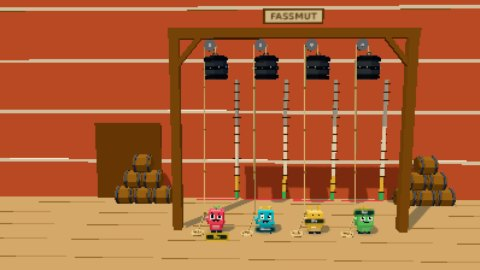
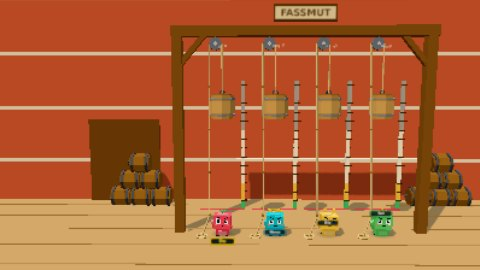
Bergsteiger an den Griffen, Trampolin ohne Flackern, Fassmut trifft den Kopf
Bergsteiger: Die Figur hing eine halbe Figur unter den Griffen. Die lagen
seit der letzten Runde über dem Kopf, der Arm ist aber nur gut 0,23 lang.
Jetzt liegt der neueste Griff knapp über der Schulter in Reichweite des
schräg hochgestreckten Arms, der andere auf Schulterhöhe: beide Hände
liegen auf ihren Griffen.

Trampolin: Die Grasflecken der Wiese lagen auf derselben Höhe wie der
Sand der Manege, und unter den Trampolinen flackerten grüne Zacken durch.
Die Manege liegt jetzt klar darüber.

Fassmut: Wer verlor, bekam das Fass nicht auf den Kopf. Es blieb auf einer
festen Höhe stehen, die über Blatt, Krone und Antenne lag, und die Figur
schlug darunter einen Rückwärtssalto. Jetzt misst die Szene dicht am Kopf
den echten Kopf jeder Figur: das Fass setzt darauf auf, drückt die Figur
von der Sohle aus zusammen, bleibt dabei auf dem Kopf und kippt dann zur
Seite. Was auf dem Kopf sitzt, wird darunter plattgedrückt — auch wenn ein
gefangenes Fass dicht darüber hängt. Lineal, Kopflinie und Schatten messen
jetzt ab der Oberkante des Kopfes in der Duckhaltung.

Neue Vorschaubilder für die drei Spiele.

Claude-Session: https://claude.ai/code/session_01TtCca8TKwPjvga33C8jxNp

diff --git a/client/src/minigames/BarrelDare.js b/client/src/minigames/BarrelDare.js
@@ -1,5 +1,5 @@
 import * as THREE from "/vendor/three/three.module.js";
-import { reachArm } from "./VoxelKit.js?v=tumblekin215";
+import { reachArm, standOn } from "./VoxelKit.js?v=tumblekin215";
 import { MinigameScene } from "./MinigameScene.js?v=tumblekin215";
 import { eventChance, frameLerp } from "./Quality.js?v=tumblekin215";
 
@@ -27,7 +27,16 @@ const LANE_GAP = 1.4;
 // Weltmass je Meter Fallhöhe. Kleiner als früher: die Kamera muss vom Balken
 // bis zu den Füssen alles zeigen, und mit 0.3 war die Figur darunter winzig.
 const METER = 0.24;
-const HEAD_TOP = 0.86;                // Oberkante des Kopfes
+// Oberkante des Kopfes in der Duckhaltung, in der man auf das Fass wartet —
+// Lineal, Kopflinie und Schatten messen von hier. 0.86 lag über Blatt, Krone
+// und Antenne: das Fass "traf" eine Handbreit über dem Kopf in der Luft.
+// Dicht am Kopf misst die Szene ohnehin den echten Kopf jeder Figur
+// (headTopOf), und was obendrauf sitzt, drückt das Fass platt.
+const HEAD_TOP = 0.6;
+// Unterhalb dieser Höhe (in Metern) hängt das Fass am gemessenen Kopf statt
+// an HEAD_TOP — so berührt es den Kopf wirklich, wenn es trifft.
+const HEAD_NEAR_M = 1.5;
+const _headBox = new THREE.Box3();
 const BARREL_R = 0.3;
 const BARREL_H = 0.62;
 const KIN_Z = 0.3;
@@ -66,6 +75,14 @@ function verdict(distance) {
   if (distance < 1.2) return { word: "MUTIG!", color: "#7fe0a8" };
   if (distance < 3) return { word: "SOLIDE", color: "#ffe9a8" };
   return { word: "ANGSTHASE!", color: "#dfe7ff" };
+}
+
+// Oberkante des Kopfblocks in der Welt, ohne Blatt, Krone oder Antenne (die
+// hängen als eigene Teile am Kopf). Ein Bild alt — das reicht zum Aufsetzen.
+function headTopOf(kin) {
+  const block = kin?.userData?.head?.children?.[0];
+  if (!block) return NaN;
+  return _headBox.setFromObject(block).max.y;
 }
 
 function barrelAt(t, brakeAt, startM, w = NORMAL_FASS) {
@@ -301,7 +318,8 @@ export class BarrelDare extends MinigameScene {
     this.addKin(player, index, { x, ground: 0, z: KIN_Z, facing: 0 });
     this.lanes.set(player.id, {
       x, barrel, ropeTop, ropeHand, ropeTail, knots, coil, pulleyY, ghost, plate,
-      shown: this.startM, settledAt: null, squashAt: null, fell: null
+      shown: this.startM, settledAt: null, squashAt: null, fell: null,
+      headTop: HEAD_TOP, accH: 0, lastSquash: 1
     });
   }
 
@@ -463,22 +481,65 @@ export class BarrelDare extends MinigameScene {
         lane.shown += (startM * 0.62 - lane.shown) * e;
       }
 
-      const bottom = HEAD_TOP + Math.max(0, lane.shown) * METER;
+      // Der echte Kopf (ohne Blatt, Krone oder Antenne), geglättet gegen das
+      // Wippen der Haltung. Gemessen wird, solange nichts darauf liegt.
+      const accessory = kin.userData.accessory;
+      if (!hit) {
+        const measured = headTopOf(kin);
+        if (Number.isFinite(measured)) lane.headTop += (measured - lane.headTop) * frameLerp(0.3, dt);
+        // Wie hoch Blatt, Krone oder Antenne über den Kopf ragen — nur
+        // messbar, solange nichts sie plattdrückt.
+        if (accessory && accessory.scale.y > 0.99) {
+          const top = _headBox.setFromObject(accessory).max.y;
+          if (Number.isFinite(top) && Number.isFinite(measured)) lane.accH += (Math.max(0, top - measured) - lane.accH) * frameLerp(0.3, dt);
+        }
+      }
+      const nearHead = Math.max(0, Math.min(1, 1 - lane.shown / HEAD_NEAR_M));
+      const bottom = HEAD_TOP + (lane.headTop - HEAD_TOP) * nearHead + Math.max(0, lane.shown) * METER;
       const swing = t < 0 ? Math.sin(now / 520 + lane.x) * 0.05 : caught ? Math.sin(since * 9) * 0.08 * Math.exp(-since * 2) : 0;
 
       if (hit) {
-        // Voll auf den Kopf: die Figur wird gestaucht, das Fass kippt zur Seite.
-        if (lane.squashAt === null) lane.squashAt = now;
+        // Voll auf den Kopf: das Fass setzt auf dem Kopf auf und drückt die
+        // Figur von der Sohle aus zusammen — es bleibt dabei auf dem Kopf —,
+        // dann kippt es zur Seite. Vorher blieb es über dem Kopf stehen,
+        // während die Figur darunter einen Salto schlug.
+        if (lane.squashAt === null) {
+          lane.squashAt = now;
+          lane.lastSquash = 1;
+        }
         const s = (now - lane.squashAt) / 1000;
         const tip = Math.min(1, Math.max(0, (s - 0.45) / 0.5));
-        lane.barrel.position.set(lane.x + tip * 0.62, HEAD_TOP - 0.28 * Math.min(1, s / 0.12) * (1 - tip) + tip * (BARREL_R - HEAD_TOP + 0.02), 0);
-        lane.barrel.rotation.set(0, 0, -tip * Math.PI / 2);
         const squash = s < 0.12 ? 1 - (s / 0.12) * 0.55 : s < 0.8 ? 0.45 : Math.min(1, 0.45 + (s - 0.8) * 2.5);
+        // Das Fass folgt dem Kopf: beim Zusammendrücken hinunter, beim
+        // Aufrichten wieder hinauf, während es zur Seite kippt. Gemessen ist
+        // der Kopf des letzten Bildes; die Stauchung wirkt von der Sohle
+        // (y = 0) aus, also rechnet ihr Verhältnis ihn auf dieses Bild um.
+        const live = headTopOf(kin);
+        const pressed = Number.isFinite(live) ? live * (squash / (lane.lastSquash || 1)) : lane.headTop * squash;
+        lane.lastSquash = squash;
+        lane.barrel.position.set(lane.x + tip * 0.62, pressed * (1 - tip) + tip * (BARREL_R + 0.02), 0);
+        lane.barrel.rotation.set(0, 0, -tip * Math.PI / 2);
         kin.scale.set(1 + (1 - squash) * 0.5, squash, 1 + (1 - squash) * 0.5);
+        // Die Figur wird um ihren Ursprung gestaucht, der eine Sohlenhöhe über
+        // dem Boden liegt; so bleiben die Füsse am Boden.
+        animator.groundY = standOn(0) * squash;
+        // Was auf dem Kopf sitzt, liegt flach unter dem Fass und springt
+        // wieder auf, sobald es herunterkippt.
+        if (accessory) accessory.scale.y = 0.15 + 0.85 * tip;
+        // Solange das Fass auf ihr liegt, steht die Figur nicht für sich —
+        // die Bodenprüfung hielt das Fass auf dem Kopf sonst für Boden.
+        kin.userData.outOfPlay = tip < 1;
       } else {
+        kin.userData.outOfPlay = false;
         lane.barrel.position.set(lane.x, bottom, 0);
         lane.barrel.rotation.set(0, 0, swing);
         kin.scale.set(1, 1, 1);
+        // Hängt das Fass dicht über dem Kopf, drückt es Blatt, Krone oder
+        // Antenne ein Stück ein, statt durch sie hindurchzuragen.
+        if (accessory) {
+          const room = bottom - lane.headTop;
+          accessory.scale.y = lane.accH > 0.01 ? Math.max(0.15, Math.min(1, room / lane.accH)) : 1;
+        }
       }
 
       // Der Schatten: Haltepunkt bei einem Zug JETZT.
@@ -535,7 +596,8 @@ export class BarrelDare extends MinigameScene {
       // Getroffen.
       if (hit && !this.lastHitAt.get(player.id)) {
         this.lastHitAt.set(player.id, now);
-        animator.trigger("knockback");
+        // Kein Rückwärtssalto: das Fass liegt auf dem Kopf, die Figur ist
+        // plattgedrückt. Der Treffer steckt in Stauchung, Splittern und Ton.
         animator.expression("dizzy", 2600);
         const at = kin.getWorldPosition(new THREE.Vector3()).add(new THREE.Vector3(0, 0.9, 0));
         this.burst(at, [player.color, "#c9a26f", "#ffffff"], { count: 18, speed: 2.6, up: 2.2, size: 0.09, life: 0.8, drag: 1.3 });

diff --git a/client/src/minigames/CliffClimb.js b/client/src/minigames/CliffClimb.js
@@ -37,11 +37,14 @@ const HOLDS_PER_LANE = 40;
 // liegt die Innenkante knapp ausserhalb, und die Hand reicht trotzdem hin.
 const HOLD_REACH = 0.37;              // seitlicher Abstand des Griffs zur Bahn
 const HOLD_W = 0.26;
-// Griffhöhe über der Sohle bei Sprosse 0. Die Hände greifen die zuletzt
-// gepackten Griffe; mit 0.39 lag der neueste eine Sprosse unter der Schulter,
-// und die Figur hantierte mit hängenden Armen. Gut zwei Sprossen höher hängt
-// er über dem Scheitel — beim Klettern sind die Arme oben.
-const HOLD_LIFT = 1.05;
+// Griffhöhe bei Sprosse 0, gemessen an der Schulter (kin.position.y). Die
+// Hände greifen die zuletzt gepackten Griffe, und der Arm ist nur gut 0,23
+// lang. Mit 0.39 zeigte der andere Arm schräg nach unten; mit 1.05 hingen
+// die Griffe über dem Kopf, und die Figur hing eine halbe Figur darunter,
+// ohne sie zu erreichen. Jetzt liegt der neueste Griff (eine Sprosse tiefer)
+// knapp über der Schulter in Reichweite des schräg hochgestreckten Arms, der
+// andere auf Schulterhöhe — beide Hände liegen auf ihren Griffen.
+const HOLD_LIFT = 0.48;
 // Die Gipfelkante liegt eine Handbreit über dem letzten Griff.
 const SUMMIT_ABOVE = HOLD_LIFT - 0.09;
 const HOLD_FACE_Z = -0.36;            // Vorderseite der Griffe

diff --git a/client/src/minigames/Trampoline.js b/client/src/minigames/Trampoline.js
@@ -242,16 +242,19 @@ export class Trampoline extends MinigameScene {
   buildCircus(count) {
     const scene = this.scene;
     const zufall = streuer(61);
+    // Klar über den Grasflecken der Wiese (0.008 und 0.012): auf gleicher
+    // Höhe stritten Sand und Gras in jedem Bild, wer vorn liegt, und unter
+    // den Trampolinen flackerten grüne Zacken durch die Manege.
     const manege = new THREE.Mesh(new THREE.CircleGeometry(4.4, 40), lambert("#e6c58f"));
     manege.rotation.x = -Math.PI / 2;
-    manege.position.set(0, 0.012, -0.6);
+    manege.position.set(0, 0.03, -0.6);
     manege.receiveShadow = true;
     scene.add(manege);
     const spaene = [];
     for (let i = 0; i < 70; i += 1) {
       const a = zufall() * Math.PI * 2;
       const r = Math.sqrt(zufall()) * 4.2;
-      spaene.push({ p: [Math.cos(a) * r, 0.016, -0.6 + Math.sin(a) * r], r: [-Math.PI / 2, 0, zufall() * 3], s: 0.05 + zufall() * 0.05 });
+      spaene.push({ p: [Math.cos(a) * r, 0.04, -0.6 + Math.sin(a) * r], r: [-Math.PI / 2, 0, zufall() * 3], s: 0.05 + zufall() * 0.05 });
     }
     viele(scene, new THREE.PlaneGeometry(1, 1), lambert("#cfa56a"), spaene);
     const rand = [[], []];

diff --git a/GAMEPLAY_AUDIT.md b/GAMEPLAY_AUDIT.md
@@ -166,3 +166,11 @@ Kosten: ein Rechenschritt (20 ms Spielzeit) braucht mit sieben Tieren 0,1 ms; ei
 | Lichtwächter | Nur der Knopf unten zählte; mit 700 → 360 ms Drehung plus 160 ms Nachfrist kam man ohne Treffer durch. | Halten zählt überall auf dem Bild. Drehung 560 → 300 ms, Nachfrist 120 ms. |
 | Messerwurf | Wer raus war, sah eine halbe Minute den eigenen stillen Stamm unter einem Banner. | Das Banner verschwindet nach 2,5 s, die Kamera rückt auf die Stämme der anderen. |
 | Kippboot (aus der Gesamtprüfung) | Der feste Ausschnitt reichte nicht bis zum Steg; erst das Nachführen der eigenen Figur holte ihn ins Bild — der vorderste Warteplatz lag trotzdem draussen, und bei jedem eigenen Gang zum Hebel rückte das Bild mit. | Grundausschnitt etwas breiter und nach rechts, Warteplätze enger beim Hebel; die Kamera hält zwei feste Punkte am Steg statt der eigenen Figur und steht damit wirklich still. |
+
+### Zweite Runde am selben Tag
+
+| Spiel | Befund | Änderung |
+| --- | --- | --- |
+| Bergsteiger | Die Figur hing eine halbe Figur unter den Griffen: die lagen über dem Kopf, der Arm ist aber nur gut 0,23 lang. | Der neueste Griff liegt knapp über der Schulter in Reichweite des schräg hochgestreckten Arms, der andere auf Schulterhöhe — beide Hände liegen auf ihren Griffen. |
+| Trampolin | Unter den Trampolinen flackerten grüne Zacken durch den Sand. | Die Grasflecken der Wiese lagen auf derselben Höhe wie die Manege (1,2 cm); die Manege liegt jetzt klar darüber. |
+| Fassmut | Wer getroffen wurde, bekam das Fass nicht auf den Kopf: es blieb auf fester Höhe (0,86) über dem Kopf stehen, der in der Duckhaltung bei 0,6 endet, und die Figur schlug darunter einen Salto. | Dicht am Kopf misst die Szene den echten Kopf jeder Figur; das Fass setzt darauf auf, drückt die Figur von der Sohle aus zusammen, bleibt dabei auf dem Kopf und kippt dann zur Seite. Blatt, Krone und Antenne werden darunter plattgedrückt. Lineal und Kopflinie messen ab 0,6. |
